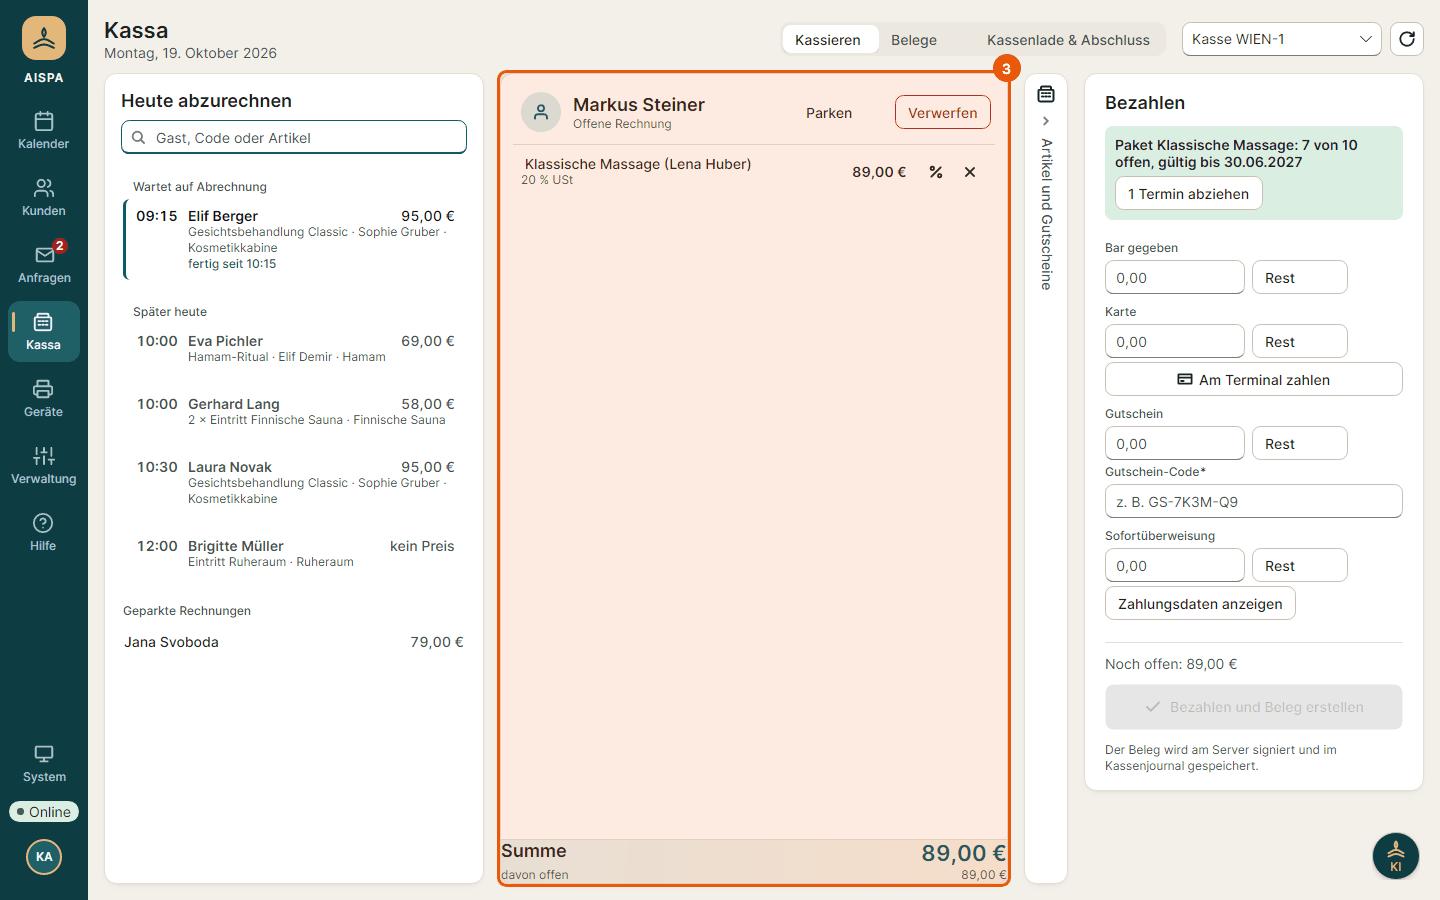
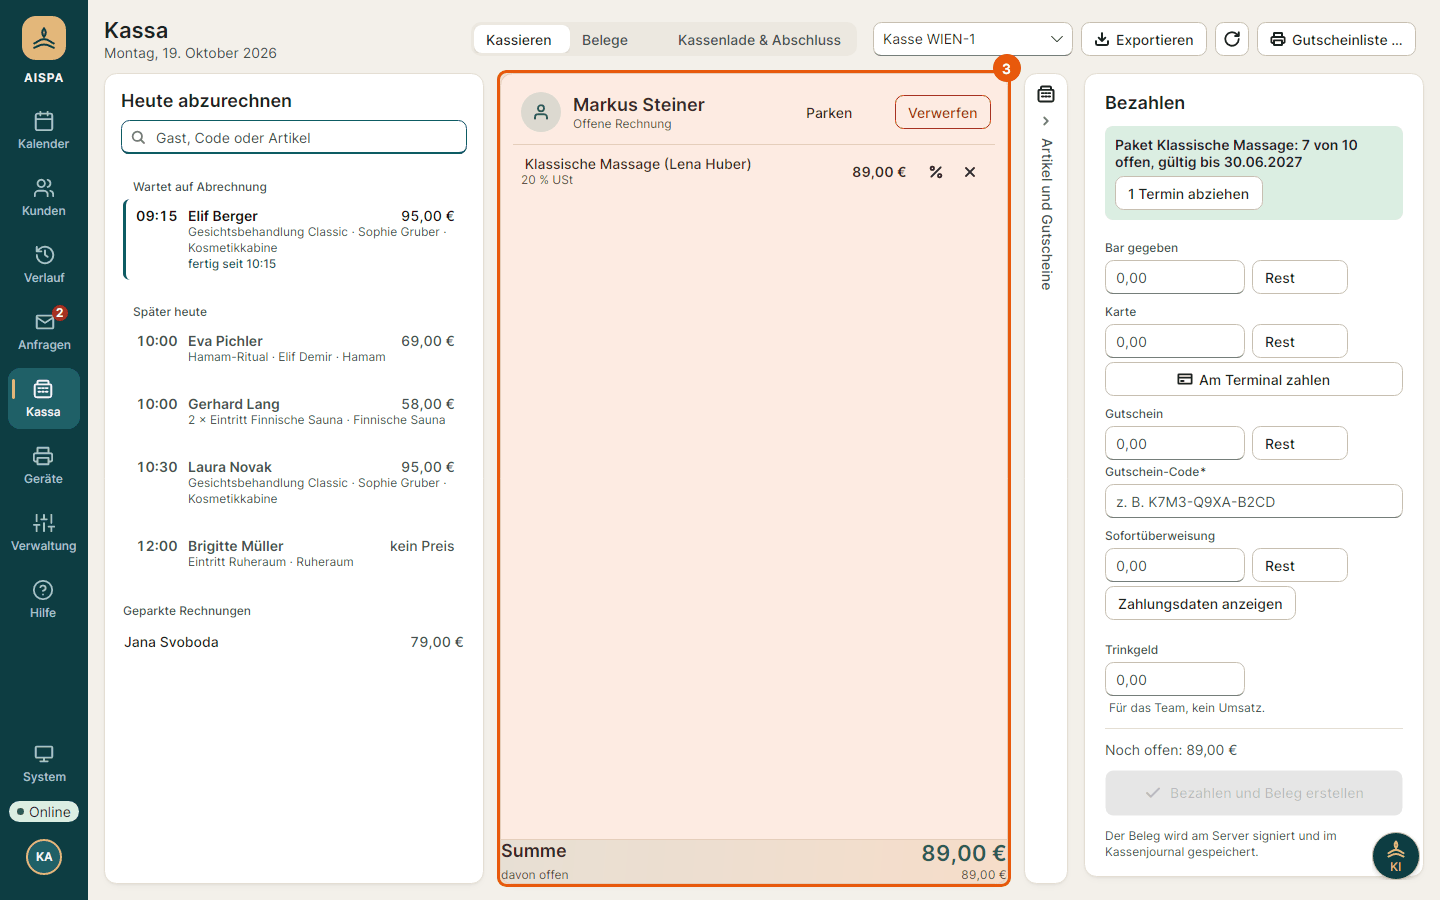
Kassa: Feld Trinkgeld in der Windows-App mit Überschuss als Trinkgeld (ADR 0095, Schritt 2)
Die Rezeption trägt Trinkgeld unter den Zahlungsarten ein; liegt unbar
mehr als der offene Betrag an, bietet die Kassa an, den Überschuss als
Trinkgeld einzutragen. Rest, Rückgeld, Belegvorschau und Tagesbericht
rechnen damit. Hilfe und Handbuchbilder sind nachgezogen.

Claude-Session: https://claude.ai/code/session_01B5RL9a5NPAggRs8rgvzbVC

diff --git a/src/AispaStudio.Desktop/ViewModels/PosViewModel.cs b/src/AispaStudio.Desktop/ViewModels/PosViewModel.cs
@@ -494,6 +494,30 @@ public partial class PosViewModel : ViewModelBase
     [ObservableProperty]
     public partial string CoverText { get; private set; } = "";
 
+    /// <summary>Trinkgeld für das Team als Eingabe (ADR 0095): kommt zum offenen Betrag dazu und ist kein Umsatz.</summary>
+    [ObservableProperty]
+    public partial string TipText { get; set; } = "";
+
+    partial void OnTipTextChanged(string value) => UpdateCover();
+
+    /// <summary>Unbar ist mehr eingetragen als offen: der Knopf „Überschuss als Trinkgeld“ trägt die Differenz ein.</summary>
+    [ObservableProperty]
+    public partial bool HasNonCashSurplus { get; private set; }
+
+    private decimal Tip => Money.Parse(TipText) ?? 0;
+
+    /// <summary>„100, stimmt so“ mit Karte: was unbar über dem offenen Betrag liegt, wird Trinkgeld.</summary>
+    [RelayCommand]
+    private void TipFromSurplus()
+    {
+        var other = Payments.Where(p => p.Method != PaymentMethod.Cash).Sum(p => Money.Parse(p.Amount) ?? 0);
+        var surplus = other - (Bill?.Open ?? 0);
+        if (surplus > 0)
+        {
+            TipText = Money.Input(surplus, Currency);
+        }
+    }
+
     [ObservableProperty]
     public partial string ChangeText { get; private set; } = "";
 
@@ -1333,7 +1357,7 @@ public partial class PosViewModel : ViewModelBase
     {
         var others = Payments.Where(p => p != entry).Sum(p => Money.Parse(p.Amount) ?? 0);
         var cashOnly = entry.Method == PaymentMethod.Cash && others == 0;
-        return Math.Max(0, (Bill?.Open ?? 0) - (cashOnly ? Bill?.CashDiscount ?? 0 : 0) - others);
+        return Math.Max(0, (Bill?.Open ?? 0) + Math.Max(0, Tip) - (cashOnly ? Bill?.CashDiscount ?? 0 : 0) - others);
     }
 
     [RelayCommand(CanExecute = nameof(CanPayNow))]
@@ -1352,7 +1376,7 @@ public partial class PosViewModel : ViewModelBase
             .ToList();
         Busy = true;
         Error = null;
-        var result = await _api.PostAsync<ReceiptDto>($"api/pos/bills/{bill.Id}/checkout", new CheckoutRequest(null, payments)).ConfigureAwait(true);
+        var result = await _api.PostAsync<ReceiptDto>($"api/pos/bills/{bill.Id}/checkout", new CheckoutRequest(null, payments, Math.Max(0, Tip))).ConfigureAwait(true);
         Busy = false;
         if (result.Value is null)
         {
@@ -1456,6 +1480,11 @@ public partial class PosViewModel : ViewModelBase
 
     private void SetBill(BillDto? bill)
     {
+        if (bill?.Id != Bill?.Id)
+        {
+            TipText = "";
+        }
+
         Bill = bill;
         DiscountLine = null;
         Lines.Clear();
@@ -1491,10 +1520,12 @@ public partial class PosViewModel : ViewModelBase
     {
         var open = Bill?.Open ?? 0;
         var amounts = Payments.Select(p => (p.Method, Amount: Money.Parse(p.Amount))).ToList();
-        if (amounts.Any(a => a.Amount is null))
+        var tip = string.IsNullOrWhiteSpace(TipText) ? 0 : Money.Parse(TipText);
+        if (amounts.Any(a => a.Amount is null) || tip is null or < 0)
         {
             CoverText = "Betrag nicht lesbar";
             ChangeText = "";
+            HasNonCashSurplus = false;
             CanPay = false;
             return;
         }
@@ -1507,13 +1538,20 @@ public partial class PosViewModel : ViewModelBase
             open -= bill.CashDiscount;
         }
 
+        // Trinkgeld kommt zum offenen Betrag dazu; unbar darf genau um das Trinkgeld höher sein, bar gibt es darüber Rückgeld.
+        HasNonCashSurplus = open > 0 && other > open + tip.Value;
+        var due = open;
+        open += tip.Value;
         var rest = open - other - cash;
         var change = cash > 0 ? cash - Math.Max(0, open - other) : 0;
-        CoverText = rest > 0 ? $"Noch offen: {Format(rest)}" : "Alles gedeckt";
+        CoverText = rest > 0 ? $"Noch offen: {Format(rest)}"
+            : tip.Value > 0 ? $"Alles gedeckt, davon {Format(tip.Value)} Trinkgeld"
+            : HasNonCashSurplus ? $"Zu viel: {Format(other - open)} über dem offenen Betrag"
+            : "Alles gedeckt";
         ChangeText = change > 0 ? $"Rückgeld: {Format(change)}" : "";
         var vouchersComplete = Payments.Where(p => p.IsVoucher && (Money.Parse(p.Amount) ?? 0) > 0).All(p => p.VoucherCode.Trim().Length > 0);
         var cardWaiting = Payments.Any(p => p.IsWaiting);
-        CanPay = open > 0 && rest <= 0 && other <= open && vouchersComplete && !cardWaiting;
+        CanPay = due > 0 && rest <= 0 && other <= open && vouchersComplete && !cardWaiting;
     }
 }
 
@@ -1617,8 +1655,9 @@ public sealed class ReceiptViewModel(ReceiptDto receipt, TimeZoneInfo zone, Fisc
         .Select(t => new ReceiptRow($"{t.Percent:0.#} % USt von {Format(t.Net)}", Format(t.Tax)))
         .ToList();
 
-    public IReadOnlyList<ReceiptRow> Payments => Receipt.Payments
-        .Select(p => new ReceiptRow(p.VoucherCode is { } code ? $"Gutschein {code}" : Money.MethodText(p.Method), Format(p.Amount)))
+    /// <summary>Zahlungen des Belegs; Trinkgeld steht davor als eigene Zeile, weil es in den Zahlungen enthalten, aber kein Umsatz ist (ADR 0095).</summary>
+    public IReadOnlyList<ReceiptRow> Payments => (Receipt.Tip != 0 ? new[] { new ReceiptRow("Trinkgeld (kein Umsatz)", Format(Receipt.Tip)) } : [])
+        .Concat(Receipt.Payments.Select(p => new ReceiptRow(p.VoucherCode is { } code ? $"Gutschein {code}" : Money.MethodText(p.Method), Format(p.Amount))))
         .ToList();
 
     /// <summary>Mit diesem Beleg ausgestellte Gutscheine: Code zum Mitgeben an den Gast, darunter das Ablaufdatum, falls gesetzt.</summary>

diff --git a/tests/AispaStudio.Desktop.Tests/PosTests.cs b/tests/AispaStudio.Desktop.Tests/PosTests.cs
@@ -543,6 +543,66 @@ public sealed class PosTests
     }
 
     [Fact]
+    public async Task Trinkgeld_Given_Karte_150_bei_138_80_When_Ueberschuss_als_Trinkgeld_Then_geht_11_20_als_Trinkgeld_an_den_Server()
+    {
+        // Given eine Rechnung über 138,80 und 150,00 mit Karte: zu viel, der Knopf für den Überschuss erscheint
+        var stub = Api();
+        var pos = new PosViewModel(stub.Client(), new SampleTime());
+        await pos.InitializeAsync(SpaSample.LocationId);
+        await pos.AddAppointmentAsync(SpaSample.Paying);
+        var card = pos.Payments.First(p => p.Method == PaymentMethod.Card);
+        card.Amount = "150";
+        Assert.False(pos.CanPay);
+        Assert.True(pos.HasNonCashSurplus);
+        Assert.Equal("Zu viel: 11,20 € über dem offenen Betrag", pos.CoverText);
+
+        // When der Überschuss als Trinkgeld eingetragen wird
+        pos.TipFromSurplusCommand.Execute(null);
+
+        // Then steht das Trinkgeld im Feld, alles ist gedeckt, und der Server bekommt es eigens
+        Assert.Equal("11,20", pos.TipText);
+        Assert.False(pos.HasNonCashSurplus);
+        Assert.Equal("Alles gedeckt, davon 11,20 € Trinkgeld", pos.CoverText);
+        Assert.Equal("", pos.ChangeText);
+        Assert.True(pos.CanPay);
+        await pos.PayCommand.ExecuteAsync(null);
+        var body = stub.Calls.Single(c => c.Route.EndsWith("/checkout", StringComparison.Ordinal)).Body!;
+        Assert.Contains("\"tip\":11.20", body, StringComparison.Ordinal);
+        Assert.Equal("", pos.TipText);
+    }
+
+    [Fact]
+    public async Task Trinkgeld_Given_5_00_eingetragen_When_Rest_und_bar_Then_rechnen_Rest_und_Rueckgeld_mit_dem_Trinkgeld()
+    {
+        var stub = Api();
+        var pos = new PosViewModel(stub.Client(), new SampleTime());
+        await pos.InitializeAsync(SpaSample.LocationId);
+        await pos.AddAppointmentAsync(SpaSample.Paying);
+
+        pos.TipText = "5";
+        var cash = pos.Payments.First(p => p.Method == PaymentMethod.Cash);
+        pos.FillRestCommand.Execute(cash);
+        Assert.Equal("143,80", cash.Amount);
+        cash.Amount = "150";
+        Assert.Equal("Rückgeld: 6,20 €", pos.ChangeText);
+        Assert.True(pos.CanPay);
+
+        pos.TipText = "abc";
+        Assert.Equal("Betrag nicht lesbar", pos.CoverText);
+        Assert.False(pos.CanPay);
+    }
+
+    [Fact]
+    public void Trinkgeld_steht_auf_dem_Beleg_vor_den_Zahlungen_und_im_Tagesbericht_nach_den_Zahlarten()
+    {
+        var receipt = new ReceiptViewModel(SpaSample.Receipt() with { Tip = 8m }, TimeZoneInfo.Utc, FiscalCountry.AT);
+
+        Assert.Equal(new ReceiptRow("Trinkgeld (kein Umsatz)", "8,00 €"), receipt.Payments[0]);
+        Assert.Equal(3, receipt.Payments.Count);
+        Assert.Equal(2, new ReceiptViewModel(SpaSample.Receipt(), TimeZoneInfo.Utc, FiscalCountry.AT).Payments.Count);
+    }
+
+    [Fact]
     public async Task Karte_ueber_dem_offenen_Betrag_geht_nicht()
     {
         var pos = new PosViewModel(Api().Client(), new SampleTime());

diff --git a/tests/AispaStudio.Desktop.Tests/ViewTests.PosPaymentPrefill.cs b/tests/AispaStudio.Desktop.Tests/ViewTests.PosPaymentPrefill.cs
@@ -1,3 +1,4 @@
+using AispaStudio.Contracts;
 using AispaStudio.Desktop.Controls;
 using AispaStudio.Desktop.ViewModels;
 using AispaStudio.Desktop.Views;
@@ -32,6 +33,30 @@ public sealed partial class ViewTests
             await act(window, field, shell.Pos);
             return shell.Pos;
         }, Api());
+
+    [Fact]
+    public Task Kassa_Given_Karte_100_bei_89_00_When_Ueberschuss_als_Trinkgeld_Then_steht_11_00_im_Feld_Trinkgeld_und_alles_ist_gedeckt() =>
+        PosCash("kassa-trinkgeld", async (window, _, pos) =>
+        {
+            // Given 100,00 mit Karte bei 89,00: der Verweis für den Überschuss erscheint
+            pos.Payments.First(p => p.Method == PaymentMethod.Card).Amount = "100";
+            await Pump();
+            var surplus = window.GetVisualDescendants().OfType<Button>().Single(b => b.Name == "TipFromSurplusButton");
+            Assert.True(surplus.IsEffectivelyVisible);
+
+            // When der Überschuss als Trinkgeld eingetragen wird
+            pos.TipFromSurplusCommand.Execute(null);
+            await Pump();
+
+            // Then steht er im Feld „Trinkgeld“, der Verweis ist weg und bezahlt werden kann
+            var tip = window.GetVisualDescendants().OfType<MoneyField>().Single(f => f.Name == "TipBox");
+            Assert.Equal("11,00", tip.CommittedText);
+            Assert.False(surplus.IsEffectivelyVisible);
+            Assert.Equal("Alles gedeckt, davon 11,00 € Trinkgeld", pos.CoverText);
+            Assert.True(pos.CanPay);
+            tip.BringIntoView();
+            await Pump();
+        });
 
     [Fact]
     public Task Kassa_Given_Rechnung_ohne_Zahlung_When_in_Bar_gegeben_geklickt_Then_steht_dort_89_00_ganz_markiert() =>

diff --git a/src/AispaStudio.Desktop/ViewModels/PosViewModel.Day.cs b/src/AispaStudio.Desktop/ViewModels/PosViewModel.Day.cs
@@ -137,7 +137,11 @@ public partial class PosViewModel
 
     public string ReportRevenue => Format(Report?.Revenue ?? 0);
 
-    public IReadOnlyList<ReceiptRow> ReportPayments => Report?.Payments.Select(p => new ReceiptRow(Money.MethodText(p.Method), Format(p.Amount))).ToList() ?? [];
+    /// <summary>Zahlarten des Berichts; enthaltenes Trinkgeld steht als letzte Zeile, weil es kein Umsatz ist (ADR 0095).</summary>
+    public IReadOnlyList<ReceiptRow> ReportPayments => Report is { } r
+        ? [.. r.Payments.Select(p => new ReceiptRow(Money.MethodText(p.Method), Format(p.Amount))),
+            .. r.Tips != 0 ? new[] { new ReceiptRow("davon Trinkgeld (kein Umsatz)", Format(r.Tips)) } : []]
+        : [];
 
     public IReadOnlyList<ReceiptRow> ReportTaxes => Report?.Taxes
         .Select(t => new ReceiptRow($"{t.Percent:0.#} % USt von {Format(t.Net)} netto", Format(t.Tax))).ToList() ?? [];

diff --git a/docs/stand-und-offene-punkte.md b/docs/stand-und-offene-punkte.md
@@ -314,7 +314,7 @@ Stand: 20.10.2026, nach PR #172; Übergabe an Claude Code ([ADR 0046](entscheidu
 | Lizenzhinweise der Fremdbausteine, Aufgabe T-058: `scripts/third-party-notices.py` erzeugt `THIRD-PARTY-NOTICES.md`, die CI legt sie mit `LICENSE` ins Paket. Seit dem 08.11.2026 stehen die zwölf Fremdbibliotheken des PostgreSQL-Builds darin, eine unbekannte DLL bricht die CI ab, StackBuilder und wxWidgets fehlen im Paket. Der Auftraggeber hat am 08.11.2026 entschieden, dass der Hinweis auf die Quelltexte der LGPL-Bibliotheken reicht; der EDB-Build wird so weitergegeben (T-059). | umgesetzt | dev |
 | Windows-App: Fenster- und Programmsymbol aus dem AISPA-Zeichen statt dem Avalonia-Logo; Favicon des Webs statt dem Vite-Logo. | umgesetzt | dev |
 | Live-Tests Rezeption nach dem Onboarding-Katalog: 31 Themen im Tester und in der Starter-App einzeln wählbar, 22 davon in Läufen bestanden, der Rest (Storno-Varianten, Kassa, Gutschein, Tagesabschluss) nach dem Code geschrieben und noch nicht live geprüft; an die Rezeptions-Lücken angepasst (Buchung am Tag des Laufs), seitdem ohne Lauf; Stand je Thema im [Katalog](umsetzung/live-tests-rezeption-onboarding.md). Live-Tests der Windows-App, Probelauf Rezeption ([ADR 0090](entscheidungen/0090-live-tests-mit-flaui.md)): `scripts/live-tests.ps1` spielt die Rezeption sichtbar gegen den Server mit Demo-Daten durch (Kundin anlegen, freie Zeit suchen, Termin buchen), mit Bild je Schritt und Bericht unter `.test-logs/live/`. Themen wählbar (`-Topics`), Starter-App mit Knöpfen (`-Gui`). Offen: Inhaberin, Mitarbeiterin (Handy-App per Playwright), Läufe nach den Rezeptions-Lücken. | umgesetzt (Probelauf) | dev |
-| Trinkgeld an der Kassa, Schritt 1 Server ([ADR 0095](entscheidungen/0095-trinkgeld-an-der-kassa.md)): `CheckoutRequest.Tip` und `Receipt.Tip` (Migration `ReceiptTip`), zusätzlich zum Rechnungsbetrag bezahlt, kein Umsatz und keine Zeile; nicht im RKSV-Umsatzzähler, in der DSFinV-K als `TrinkgeldAN`, eigens im Tagesabschluss (`Tips`), auf Beleg und Bon („Trinkgeld (kein Umsatz)“), Buchung auf das Konto „Trinkgeld für das Team“ (Vorgabe 3790, Hilfe `buchhaltung#trinkgeld`) | Server fertig; Feld in der Windows-App, Hilfe `kassa-bezahlen` und Handbuchbilder folgen; Steuerberatung offen | 16.11.2026 |
+| Trinkgeld an der Kassa ([ADR 0095](entscheidungen/0095-trinkgeld-an-der-kassa.md)): `CheckoutRequest.Tip` und `Receipt.Tip` (Migration `ReceiptTip`), zusätzlich zum Rechnungsbetrag bezahlt, kein Umsatz und keine Zeile; nicht im RKSV-Umsatzzähler, in der DSFinV-K als `TrinkgeldAN`, eigens im Tagesabschluss (`Tips`), auf Beleg und Bon („Trinkgeld (kein Umsatz)“), Buchung auf das Konto „Trinkgeld für das Team“ (Vorgabe 3790, Hilfe `buchhaltung#trinkgeld`) | fertig (Server und Windows-App mit Feld „Trinkgeld“, Hilfe `kassa-bezahlen#trinkgeld`); Zuordnung je Person und Steuerberatung offen | 16.11.2026 |
 
 ## Nicht auf `main`: offene Pull Requests und fertige Branch-Stände
 

diff --git a/web/src/help/content/kassa-bezahlen.md b/web/src/help/content/kassa-bezahlen.md
@@ -4,7 +4,7 @@ bereich: Kassa
 oberflaeche: windows-app
 rollen: rezeption, leitung, inhaber, manager
 seite: kassa
-stichwoerter: bezahlen, Zahlung, bar, Bargeld, Karte, Bankomat, EC-Karte, Kreditkarte, Kartenterminal, Terminal, Überweisung, Sofortüberweisung, geteilt zahlen, Split, aufteilen, Rückgeld, Wechselgeld, pay, cash, card payment, split payment, change
+stichwoerter: bezahlen, Zahlung, bar, Bargeld, Karte, Bankomat, EC-Karte, Kreditkarte, Kartenterminal, Terminal, Überweisung, Sofortüberweisung, geteilt zahlen, Split, aufteilen, Rückgeld, Wechselgeld, Trinkgeld, stimmt so, aufrunden, tip, pay, cash, card payment, split payment, change
 ---
 # Bezahlen
 
@@ -73,8 +73,24 @@ Ein Beleg kann mit mehreren Zahlungsarten bezahlt werden, z. B. ein Teil mit Gut
 3. Unter den Feldern steht „Noch offen: …“, bis alles gedeckt ist, dann „Alles gedeckt“.
 4. Auf **Bezahlen und Beleg erstellen** klicken.
 
-- Rückgeld gibt es nur bar. Mit Karte, Sofortüberweisung oder Gutschein zusammen nicht mehr als den offenen Betrag eintragen, sonst kommt „Zu viel bezahlt: …“.
+- Rückgeld gibt es nur bar. Mit Karte, Sofortüberweisung oder Gutschein zusammen nicht mehr als den offenen Betrag eintragen, außer der Rest ist [Trinkgeld](#trinkgeld).
 - Eine Rechnung auf einzelne Positionen oder Personen aufteilen (Teilbeträge) gibt es nicht. Für getrennte Zahlungen die Positionen auf getrennte Rechnungen setzen.
+
+## Trinkgeld {#trinkgeld}
+
+Gibt der Gast Trinkgeld über die Kassa, zum Beispiel „100, stimmt so“ mit der Karte bei 89,00 €, tragen Sie es bei **Trinkgeld** ein. Es gehört dem Team und ist kein Umsatz des Spas.
+
+1. Bei **Karte** den ganzen Betrag eintragen, den der Gast zahlt, z. B. `100`.
+2. Unter den Feldern steht „Zu viel: 11,00 € über dem offenen Betrag“. Auf **Überschuss als Trinkgeld eintragen** klicken. Bei **Trinkgeld** steht dann `11,00`.
+3. Auf **Bezahlen und Beleg erstellen** klicken.
+
+![Kassa mit 100,00 € auf der Karte und 11,00 € Trinkgeld](images/app/kassa-trinkgeld.png)
+
+- Sie können das Trinkgeld auch zuerst bei **Trinkgeld** eintragen. **Rest** rechnet es dann mit.
+- Bar: Bei **Bar gegeben** steht, was der Gast hinlegt. Das Rückgeld rechnet die Kassa nach Abzug des Trinkgelds.
+- Der Beleg nennt „Trinkgeld (kein Umsatz)“ bei den Zahlungen. Summe, Steuer und Erlöskonten bleiben ohne Trinkgeld.
+- Im Tagesabschluss steht unter den Zahlungsarten „davon Trinkgeld (kein Umsatz)“. Bares Trinkgeld liegt in der Lade, bis Sie es als Entnahme auszahlen ([Kassenlade](hilfe:kassa-tagesabschluss)).
+- Die Buchhaltung führt das Trinkgeld auf einem eigenen Konto ([Trinkgeld für das Team](hilfe:buchhaltung#trinkgeld)).
 
 ## Nach dem Bezahlen {#nach-dem-bezahlen}
 

diff --git a/docs/umsetzung/pr-protokoll.md b/docs/umsetzung/pr-protokoll.md
@@ -6053,3 +6053,25 @@ Auftraggeber (23.10.2026): „Räume sollen wie Urlaub auch gesperrt werden kön
   - `dotnet format --verify-no-changes` sauber, Release-Build ohne Warnungen, `npm run gen:api` und `npm run typecheck`.
 - **Nicht geprüft:** die volle API-Suite und die Ansichtstests (laufen in der CI); echte Signatureinrichtung, echte TSE und das Prüfprogramm der Finanzverwaltung.
 - **Text-Prüfung:** von Hand nach [texte.md](../gestaltung/texte.md).
+
+## Kassa: Trinkgeld für das Team, Schritt 2 Windows-App (16.11.2026)
+
+- **Auftrag:** Zweiter Schritt zu [ADR 0095](../entscheidungen/0095-trinkgeld-an-der-kassa.md): Trinkgeld an der Kassa der Windows-App eintragen.
+- **Was:**
+  - Feld **Trinkgeld** unter den Zahlungsarten, mit dem Hinweis „Für das Team, kein Umsatz.“
+  - Ist unbar mehr als offen eingetragen, steht „Zu viel: … über dem offenen Betrag“ und der Verweis **Überschuss als Trinkgeld eintragen**.
+  - **Rest**, „Noch offen“, „Rückgeld“ und der Betrag fürs Kartenterminal rechnen mit dem Trinkgeld. Gedeckt heißt es „Alles gedeckt, davon … Trinkgeld“.
+  - Belegvorschau: „Trinkgeld (kein Umsatz)“ vor den Zahlungen. Tagesbericht: „davon Trinkgeld (kein Umsatz)“ nach den Zahlungsarten.
+  - Hilfe `kassa-bezahlen#trinkgeld` mit dem neuen Bild `kassa-trinkgeld.png`; zwölf Handbuchbilder mit dem Bezahlen-Bereich neu erzeugt.
+- **Detailentscheidungen:**
+  1. Ein Feld statt einer Rückfrage: Die Kassa schlägt Trinkgeld nicht von sich aus vor, der Verweis erscheint erst bei einem Überschuss.
+  2. Der Verweis rechnet nur unbare Überschüsse um. Bar bleibt der Überschuss Rückgeld, bis jemand Trinkgeld einträgt.
+  3. Das Trinkgeld wird geleert, sobald eine andere Rechnung offen ist oder bezahlt wurde.
+  4. Die Beschriftung nennt keine Währung, wie die Felder der Zahlungsarten.
+- **Bewusst offen / später:** Zuordnung je Person; Vorschläge in Prozent (10 %, 15 %); Trinkgeld direkt am Kartenterminal eingeben lassen.
+- **Geprüft:**
+  - Tests zuerst: `PosTests` (Desktop) 48 von 48 grün, darunter drei neue zum Trinkgeld.
+  - Bildtests `*Kassa*`, `*Pos*`, `*Gutschein*`, `*Kassier*`, `*Bezahl*`, `*Bindungsfehler*`: 286 von 286 grün, neu `Kassa_Given_Karte_100_bei_89_00_When_Ueberschuss_als_Trinkgeld_…`. Bild `kassa-trinkgeld.png` bei 1440 px angesehen.
+  - `HelpTests` 17, `HelpPageCheckTests` 4, Hilfe-Tests im Web 61 von 61; `dotnet format` sauber, Release-Build ohne Warnungen.
+- **Nicht geprüft:** die laufende App unter Windows, die Skalierung 125 und 150 Prozent, ein Lauf mit angebundenem Kartenterminal; die volle Desktop-Suite läuft in der CI.
+- **Text-Prüfung:** von Hand nach [texte.md](../gestaltung/texte.md).

diff --git a/docs/umsetzung/handtests.md b/docs/umsetzung/handtests.md
@@ -1019,3 +1019,20 @@ Expected: Unter „Kassenüberschuss (Tagesabschluss)“ steht „Trinkgeld für
 Expected: 3795 bleibt stehen. Das Feld „Trinkgeld“ beim Bezahlen kommt mit Schritt 2.
 Closes: –
 Result: ☐
+
+### Trinkgeld, Schritt 2 – Trinkgeld an der Kassa eintragen
+Start: `dotnet run --project src/AispaStudio.AppHost`, Windows-App, als Rezeption anmelden, **Kassa** öffnen, einen Termin unter „Heute abzurechnen“ wählen (z. B. 89,00 €)
+1. Bei **Karte** `100` eintragen.
+Expected: Unter den Feldern steht „Zu viel: 11,00 € über dem offenen Betrag“ und der Verweis **Überschuss als Trinkgeld eintragen**; **Bezahlen und Beleg erstellen** ist gesperrt.
+2. Auf **Überschuss als Trinkgeld eintragen** klicken.
+Expected: Bei **Trinkgeld** steht `11,00`, darunter „Alles gedeckt, davon 11,00 € Trinkgeld“; der Verweis ist weg.
+3. **Bezahlen und Beleg erstellen**.
+Expected: Der Beleg zeigt Summe 89,00 €, darunter „Trinkgeld (kein Umsatz) 11,00 €“ und „Karte 100,00 €“. Das Feld **Trinkgeld** ist wieder leer.
+4. Einen zweiten Termin wählen, bei **Trinkgeld** `5` eintragen, bei **Bar gegeben** auf **Rest** klicken, dann einen glatten höheren Betrag eintragen.
+Expected: **Rest** trägt den offenen Betrag plus 5,00 ein; das Rückgeld rechnet das Trinkgeld ab.
+5. **Kassenlade & Abschluss** öffnen.
+Expected: Unter „Zahlungsarten“ steht als letzte Zeile „davon Trinkgeld (kein Umsatz) 16,00 €“; der Umsatz enthält das Trinkgeld nicht.
+6. Den ersten Beleg unter **Belege** stornieren und den Bericht neu ansehen.
+Expected: Das Trinkgeld im Bericht sinkt um 11,00 €.
+Closes: –
+Result: ☐

diff --git a/docs/entscheidungen/0095-trinkgeld-an-der-kassa.md b/docs/entscheidungen/0095-trinkgeld-an-der-kassa.md
@@ -43,7 +43,7 @@ Rechtlicher Rahmen, Stand der Recherche vom 16.11.2026:
 ## Folgen und Stand
 
 - Gebaut (Server): `PosService.BuildCheckoutAsync`, `Receipt.Tip` (Migration `ReceiptTip`), `KassenSichVFiscalization.ProcessData`, `Dsfinvk`, `BuildDayReport`, `AccountingExport`, `ReceiptDocument`, `ReceiptPrinter`, `DayClosingDocument`; Tests in `TipTests`.
-- Offen, eigener Schritt: Feld „Trinkgeld“ beim Bezahlen in der Windows-App, Trinkgeld in der Belegvorschau und im Tagesabschluss der App, Hilfe `kassa-bezahlen` und Handbuchbilder. Bis dahin lässt sich Trinkgeld nur über die Schnittstelle buchen.
+- Gebaut (Windows-App, Schritt 2): Feld „Trinkgeld“ unter den Zahlungsarten (`PosViewModel.TipText`), Verweis „Überschuss als Trinkgeld eintragen“, sobald unbar mehr als offen eingetragen ist, Zeile „Trinkgeld (kein Umsatz)“ in der Belegvorschau und „davon Trinkgeld (kein Umsatz)“ im Tagesbericht; Hilfe `kassa-bezahlen#trinkgeld` mit Bild `kassa-trinkgeld.png`.
 - Offen, später: Trinkgeld einer Person zuordnen und je Person auswerten; Auszahlung über die Lohnabrechnung statt aus der Lade.
 - **Steuerberatung:** Behandlung in der Lohnverrechnung (AT: Trinkgeldpauschale der ÖGK; DE: § 3 Nr. 51 EStG), Kontonummer 3790 je Kontenrahmen, Schweiz (Trinkgeld als Lohnbestandteil). Prüfen, ob der österreichische Beleg einen eigenen Hinweis braucht.
 - DSFinV-K ist gegen die Fassung 2.3 gebaut; die Prüfung mit dem Prüfprogramm der Finanzverwaltung steht weiter aus ([ADR 0035](0035-test-tse-und-dsfinvk.md)).
